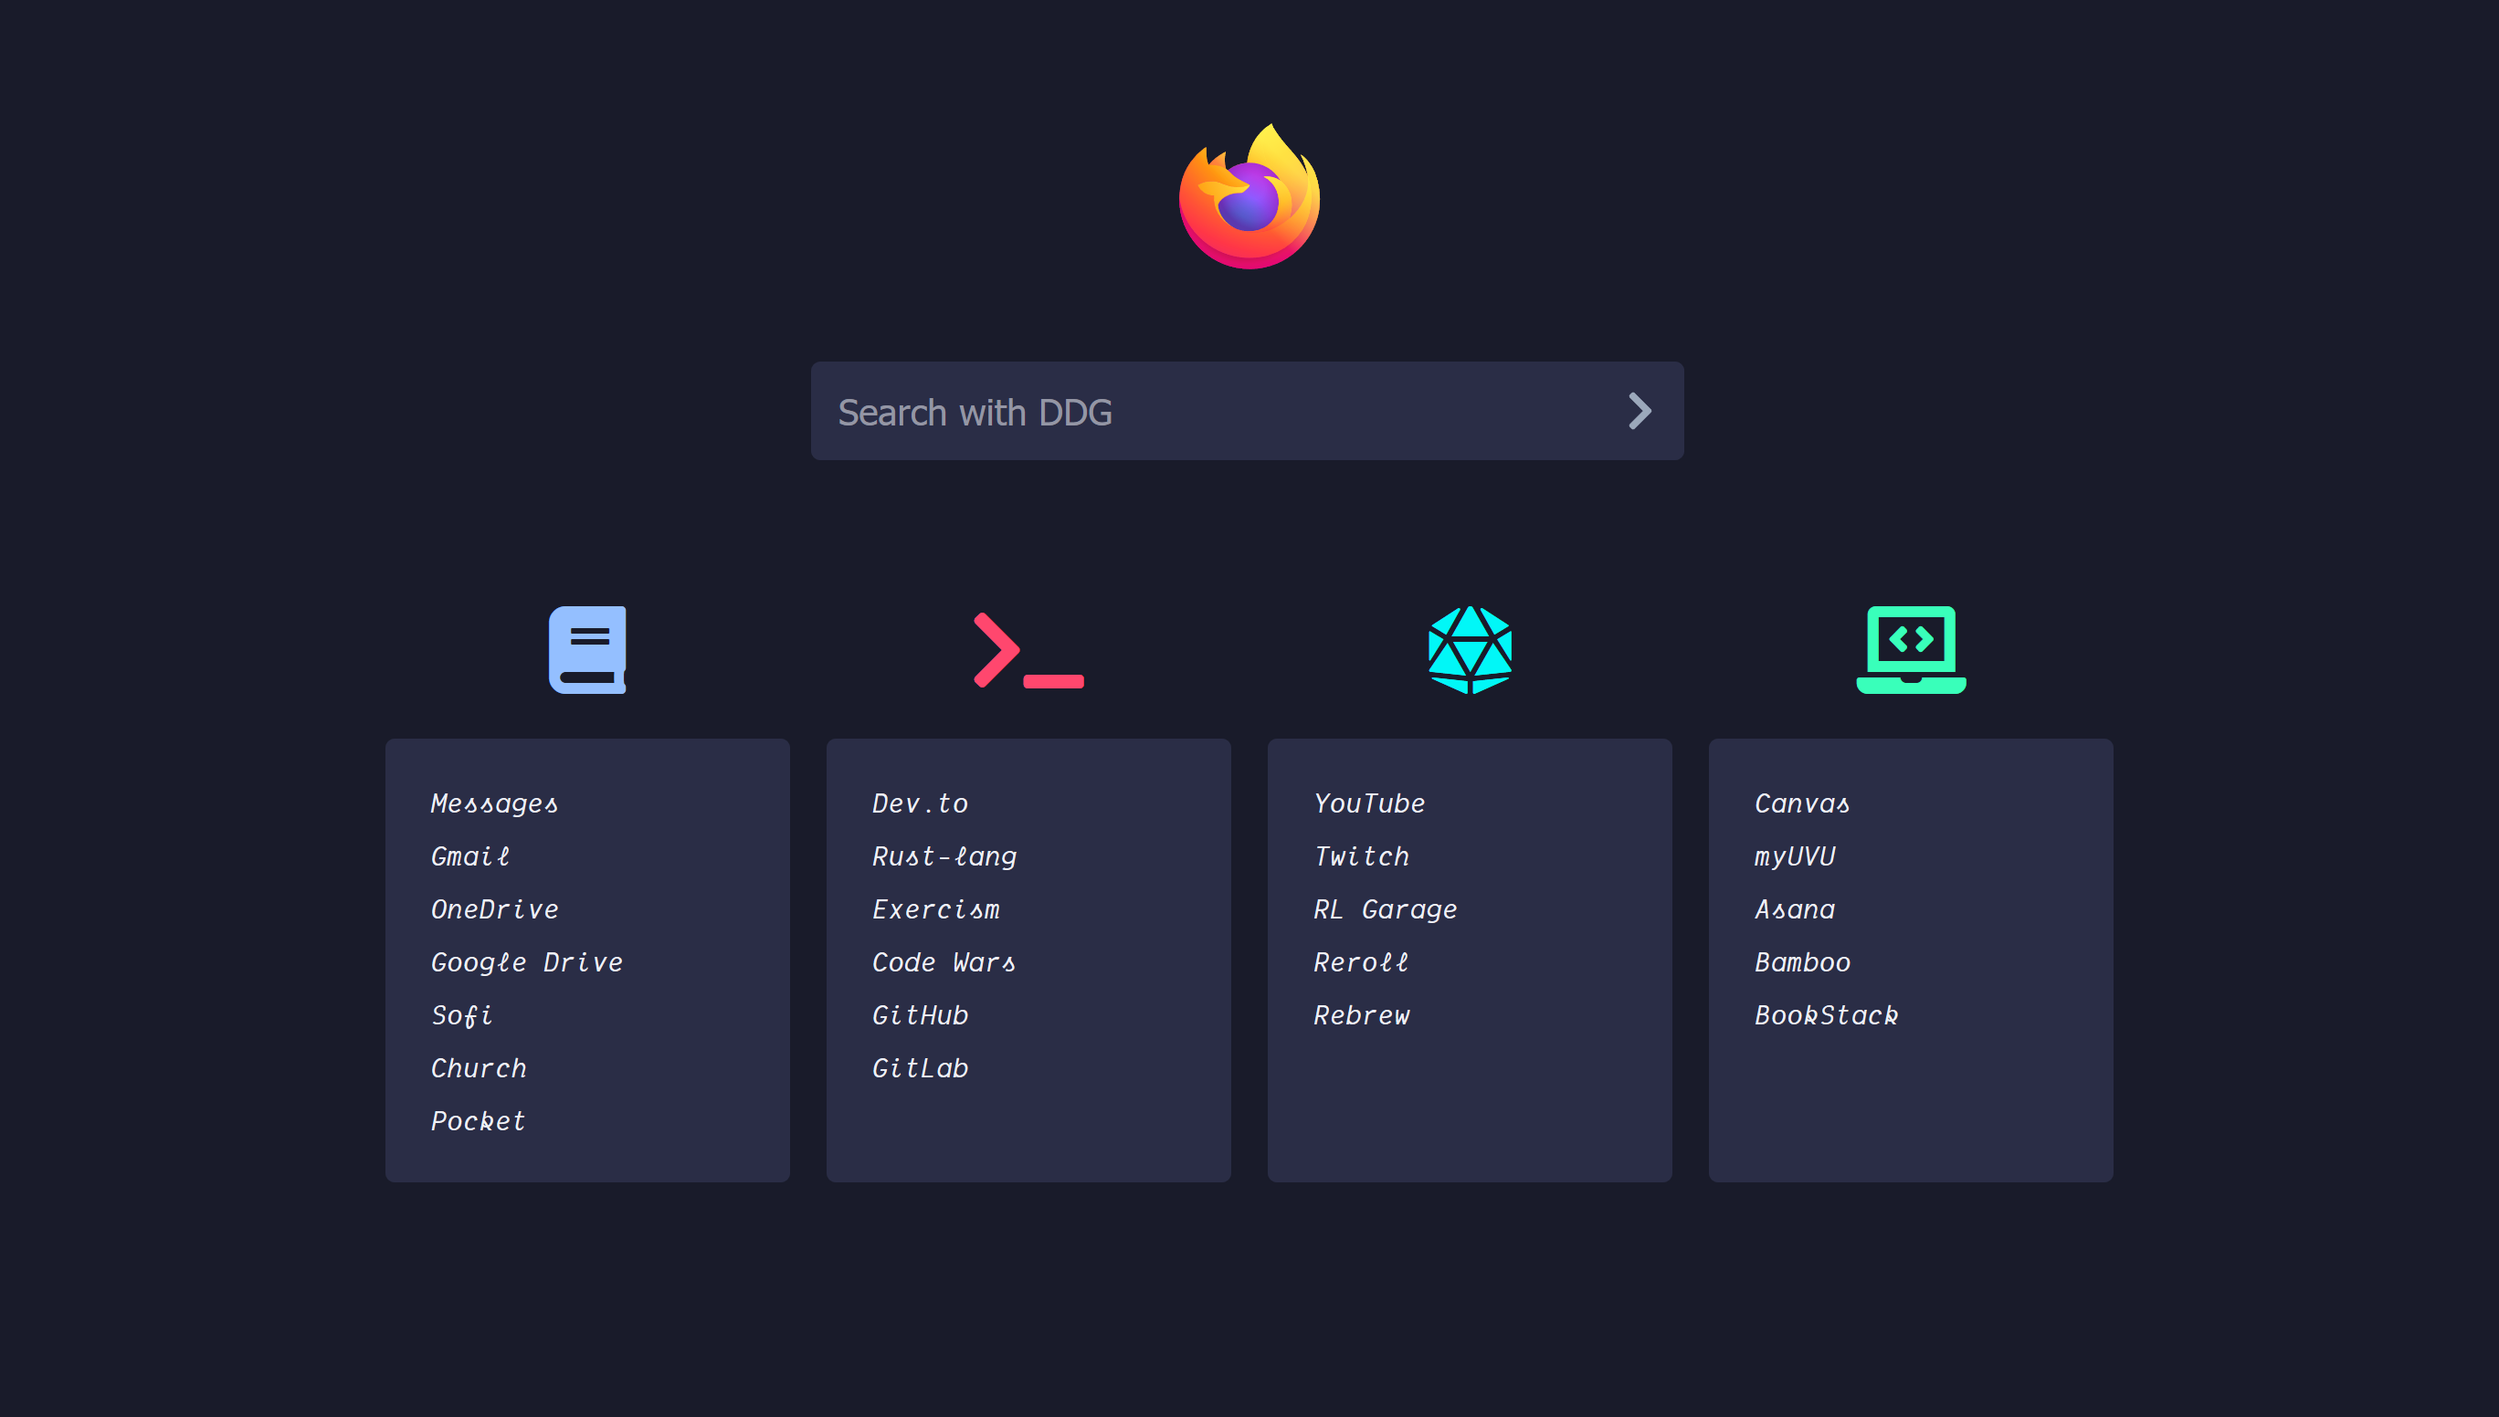
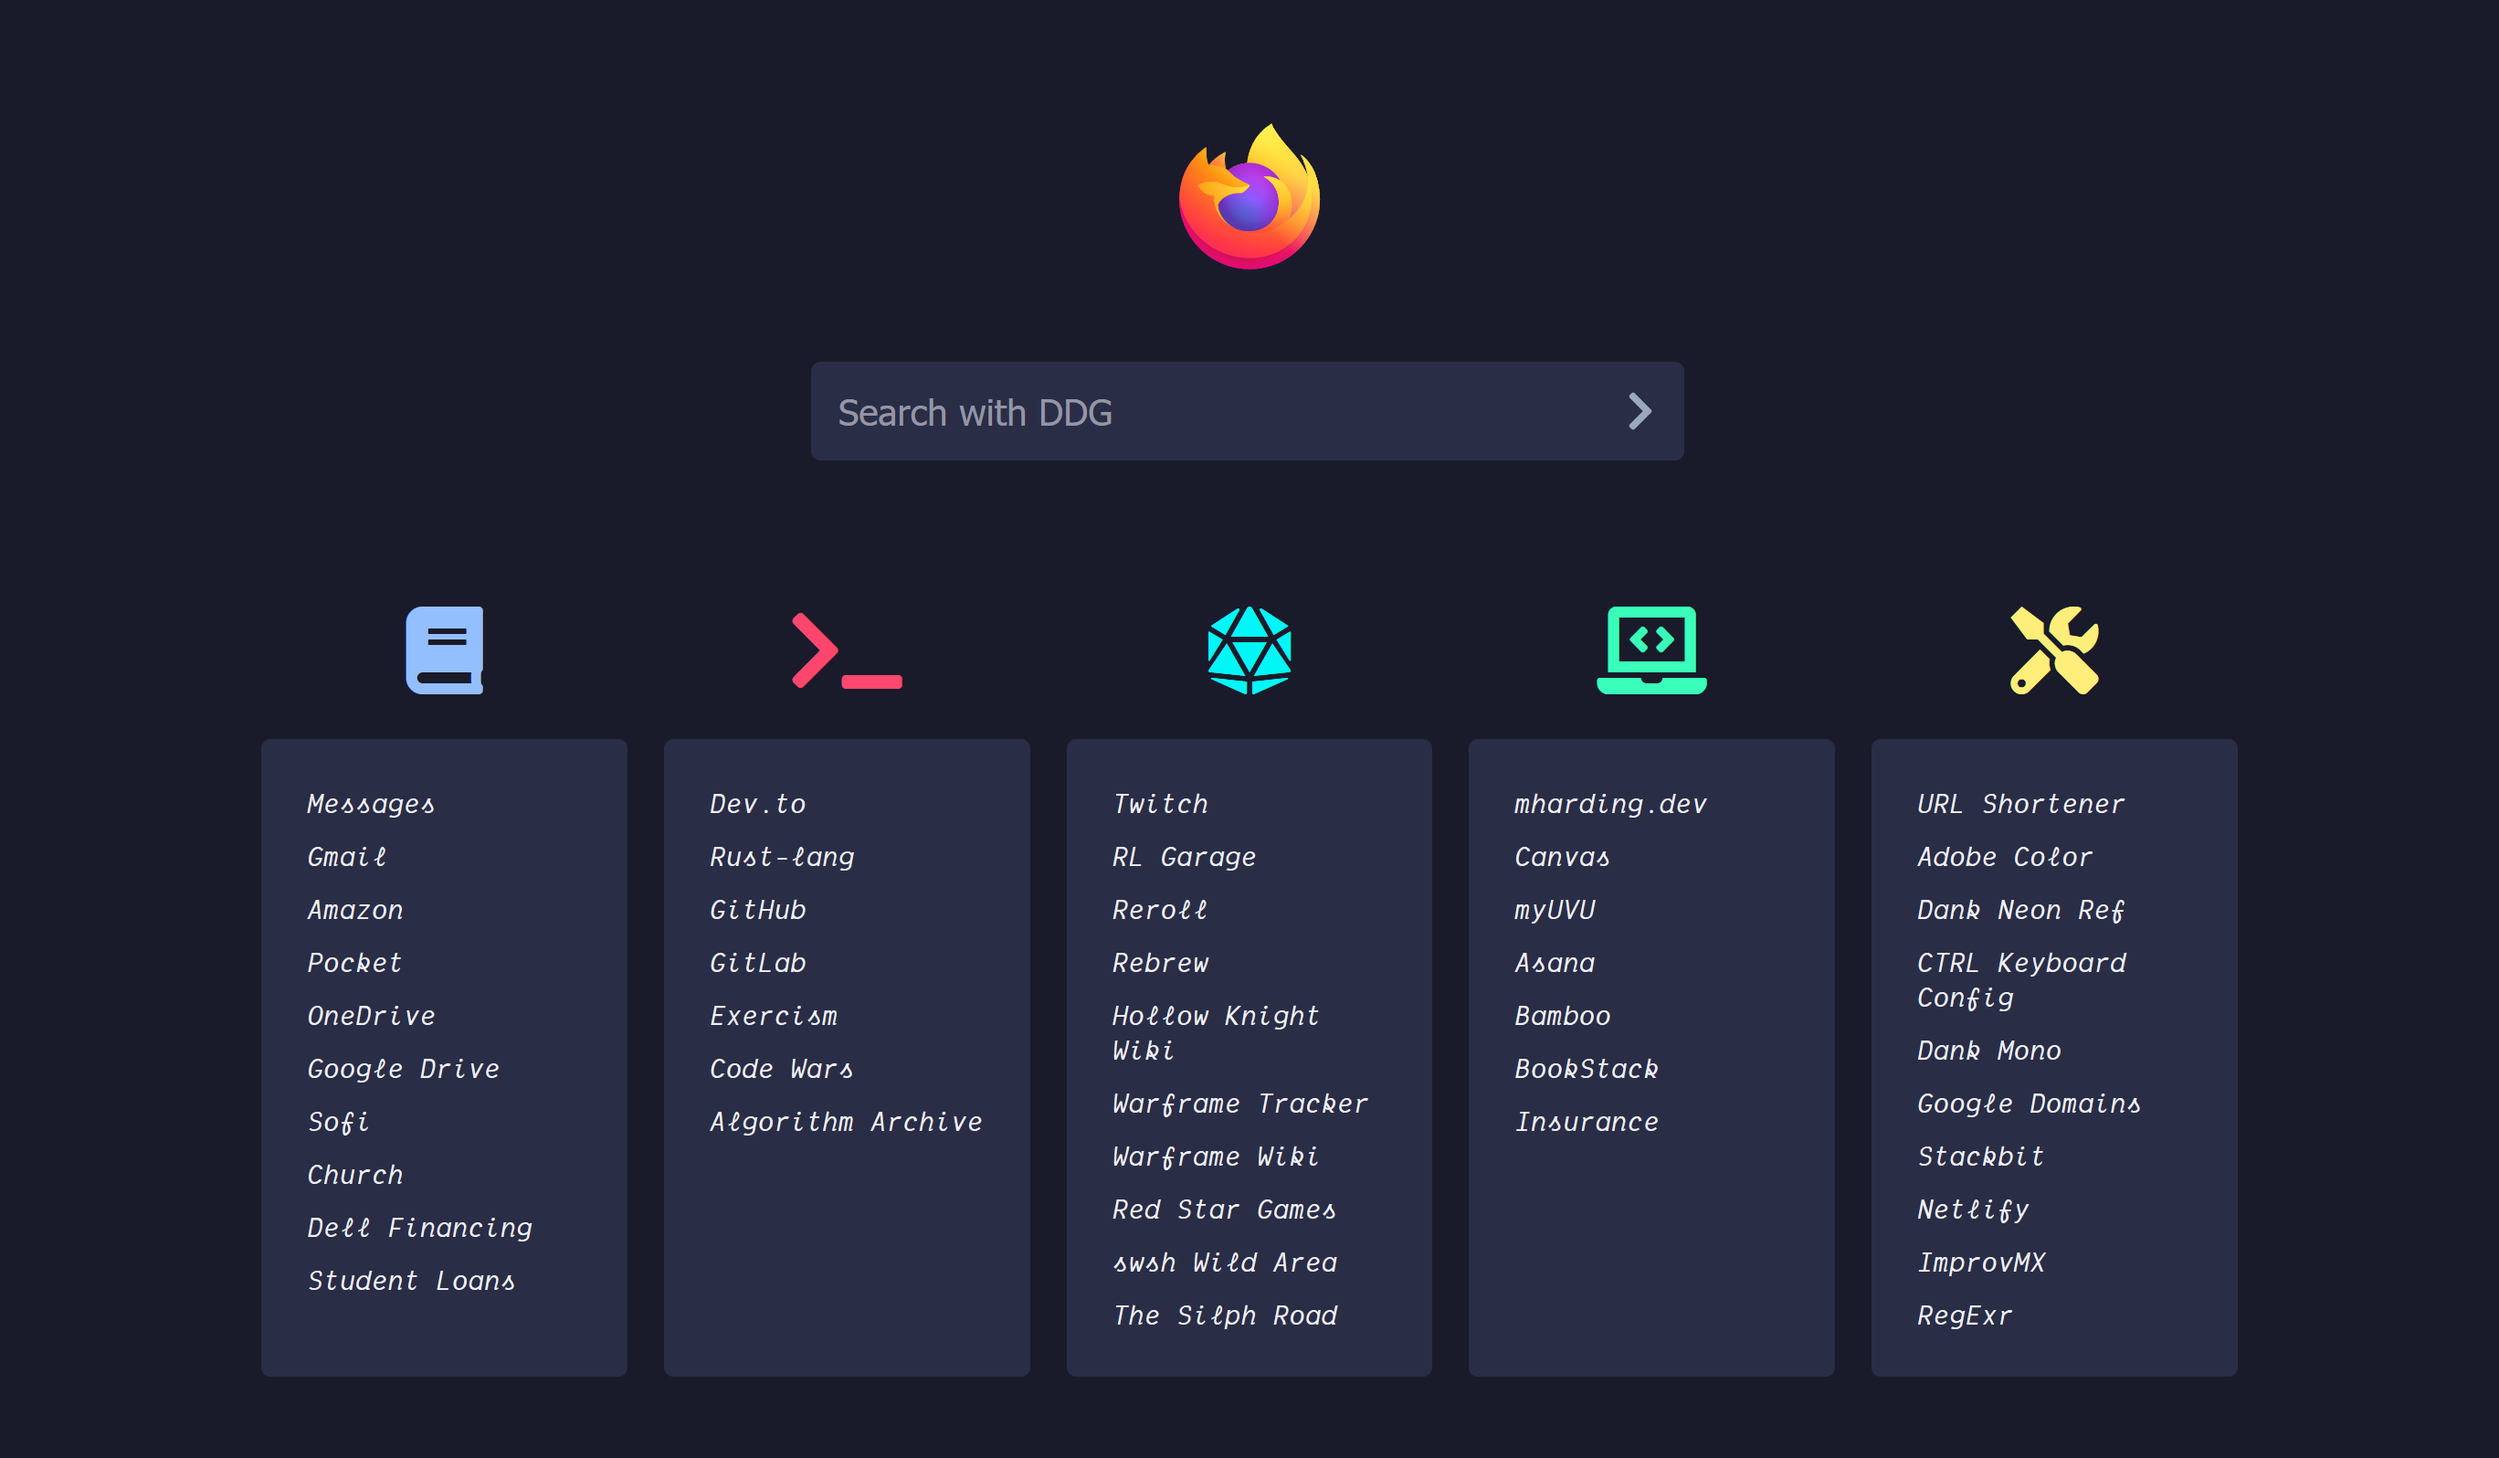
no more bookmarks!

diff --git a/startpage/index.html b/startpage/index.html
@@ -62,7 +62,7 @@
           <a class="bm" href="https://smile.amazon.com/">Amazon</a>
         </li>
         <li>
-          <a class="bm" href="hhttps://app.getpocket.com/">Pocket</a>
+          <a class="bm" href="https://app.getpocket.com/">Pocket</a>
         </li>
         <li>
           <a class="bm" href="https://onedrive.live.com/">OneDrive</a>
@@ -80,10 +80,22 @@
             >Church</a
           >
         </li>
+        <li>
+          <a class="bm" href="https://mydfs.dell.com/">Dell Financing</a>
+        </li>
+        <li>
+          <a
+            class="bm"
+            href="https://accountaccess.myfedloan.org/accountAccess/index.cfm?event=common.home"
+            >Student Loans</a
+          >
+        </li>
       </div>
       <div class="category">
         <li><a class="bm" href="https://dev.to/">Dev.to</a></li>
         <li><a class="bm" href="https://www.rust-lang.org/">Rust-lang</a></li>
+        <li><a class="bm" href="https://github.com/">GitHub</a></li>
+        <li><a class="bm" href="https://gitlab.com/">GitLab</a></li>
         <li><a class="bm" href="https://exercism.io/my/tracks">Exercism</a></li>
         <li>
           <a
@@ -92,8 +104,6 @@
             >Code Wars</a
           >
         </li>
-        <li><a class="bm" href="https://github.com/">GitHub</a></li>
-        <li><a class="bm" href="https://gitlab.com/">GitLab</a></li>
         <li>
           <a class="bm" href="https://www.algorithm-archive.org/"
             >Algorithm Archive</a
@@ -102,16 +112,10 @@
       </div>
       <div class="category">
         <li>
-          <a class="bm" href="https://www.youtube.com/">YouTube</a>
-        </li>
-        <li>
           <a class="bm" href="https://www.twitch.tv/">Twitch</a>
         </li>
         <li>
           <a class="bm" href="https://rocket-league.com/">RL Garage</a>
-        </li>
-        <li>
-          <a class="bm" href="https://tenno.tools/ns">Warframe Tracker</a>
         </li>
         <li>
           <a class="bm" href="https://app.reroll.co/">Reroll</a>
@@ -120,15 +124,32 @@
           <a class="bm" href="https://rebrew.barely.engineering/">Rebrew</a>
         </li>
         <li>
-          <a class="bm" href="https://www.pokemondens.com/"
-            >swsh Wild Area Map</a
+          <a
+            class="bm"
+            href="https://hollowknight.fandom.com/wiki/Hollow_Knight_Wiki"
+            >Hollow Knight Wiki</a
           >
+        </li>
+        <li>
+          <a class="bm" href="https://tenno.tools/ns">Warframe Tracker</a>
+        </li>
+        <li>
+          <a class="bm" href="https://warframe.fandom.com/wiki/WARFRAME_Wiki"
+            >Warframe Wiki</a
+          >
+        </li>
+        <li>
+          <a class="bm" href="https://www.redstargames.org/">Red Star Games</a>
+        </li>
+        <li>
+          <a class="bm" href="https://www.pokemondens.com/">swsh Wild Area</a>
         </li>
         <li>
           <a class="bm" href="https://thesilphroad.com/">The Silph Road</a>
         </li>
       </div>
       <div class="category">
+        <li><a class="bm" href="https://mharding.dev/">mharding.dev</a></li>
         <li><a class="bm" href="https://uvu.instructure.com">Canvas</a></li>
         <li><a class="bm" href="https://my.uvu.edu/home/">myUVU</a></li>
         <li>
@@ -146,7 +167,7 @@
         </li>
         <li>
           <a class="bm" href="https://www.employeenavigator.com/employee/Home"
-            >Insurance Info</a
+            >Insurance</a
           >
         </li>
       </div>
@@ -155,14 +176,35 @@
           <a class="bm" href="https://with.lv/">URL Shortener</a>
         </li>
         <li>
-          <a class="bm" href="https://mydfs.dell.com/">Dell Financing</a>
+          <a class="bm" href="https://color.adobe.com/create/color-wheel"
+            >Adobe Color</a
+          >
+        </li>
+        <li>
+          <a class="bm" href="https://github.com/DankNeon/meta"
+            >Dank Neon Ref</a
+          >
         </li>
         <li>
           <a
             class="bm"
-            href="https://accountaccess.myfedloan.org/accountAccess/index.cfm?event=common.home"
-            >Student Loans</a
+            href="https://drop.com/mechanical-keyboards/configurator"
+            >CTRL Keyboard Config</a
           >
+        </li>
+        <li>
+          <a class="bm" href="https://dank.sh/">Dank Mono</a>
+        </li>
+        <li>
+          <a class="bm" href="https://domains.google.com">Google Domains</a>
+        </li>
+        <li>
+          <a class="bm" href="https://app.stackbit.com/dashboard">Stackbit</a>
+        </li>
+        <li><a class="bm" href="https://app.netlify.com">Netlify</a></li>
+        <li><a class="bm" href="https://app.improvmx.com/">ImprovMX</a></li>
+        <li>
+          <a class="bm" href="https://regexr.com/">RegExr</a>
         </li>
       </div>
     </div>

diff --git a/startpage/style.css b/startpage/style.css
@@ -9,8 +9,8 @@ body {
   grid-gap: 20px;
   margin-top: 5%;
   margin-bottom: 2%;
-  margin-left: 15%;
-  margin-right: 15%;
+  margin-left: 10%;
+  margin-right: 10%;
   grid-template-columns: repeat(5, 1fr);
   justify-items: center;
 }
